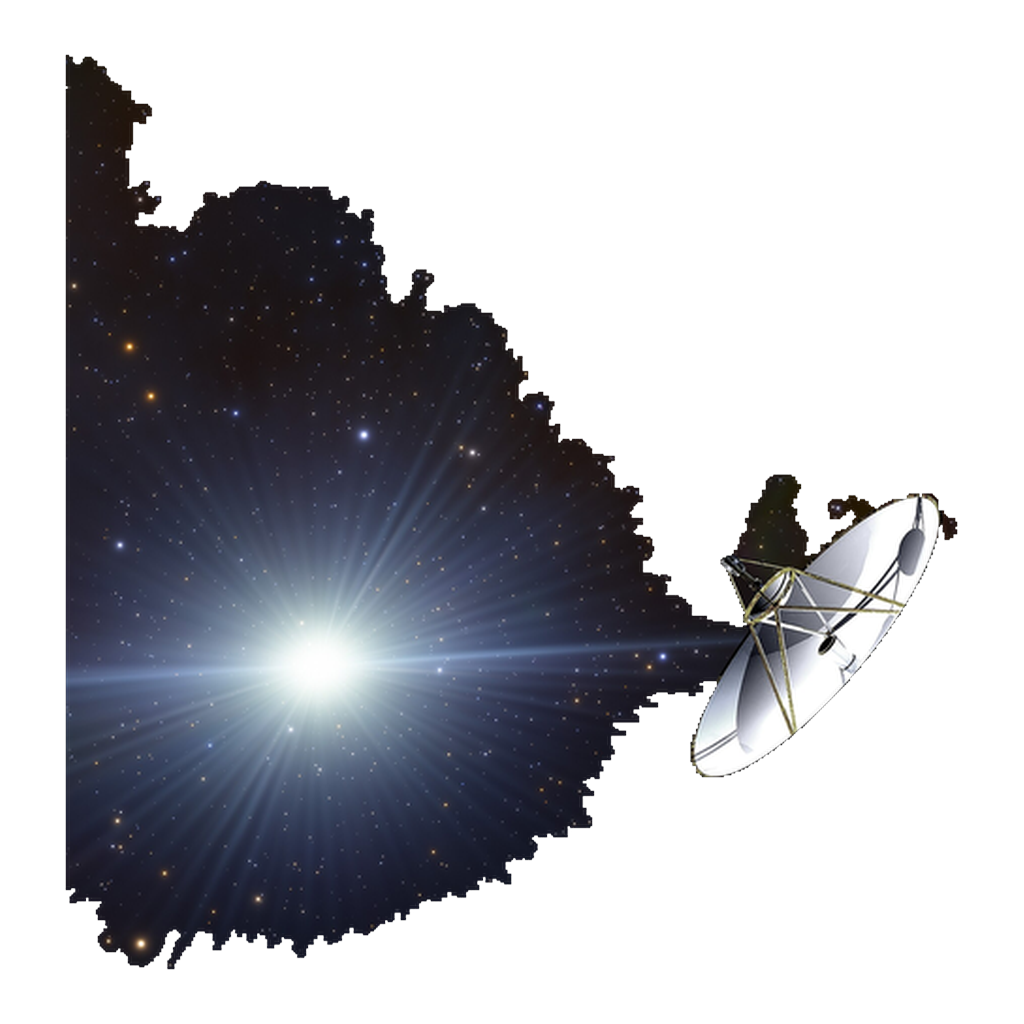
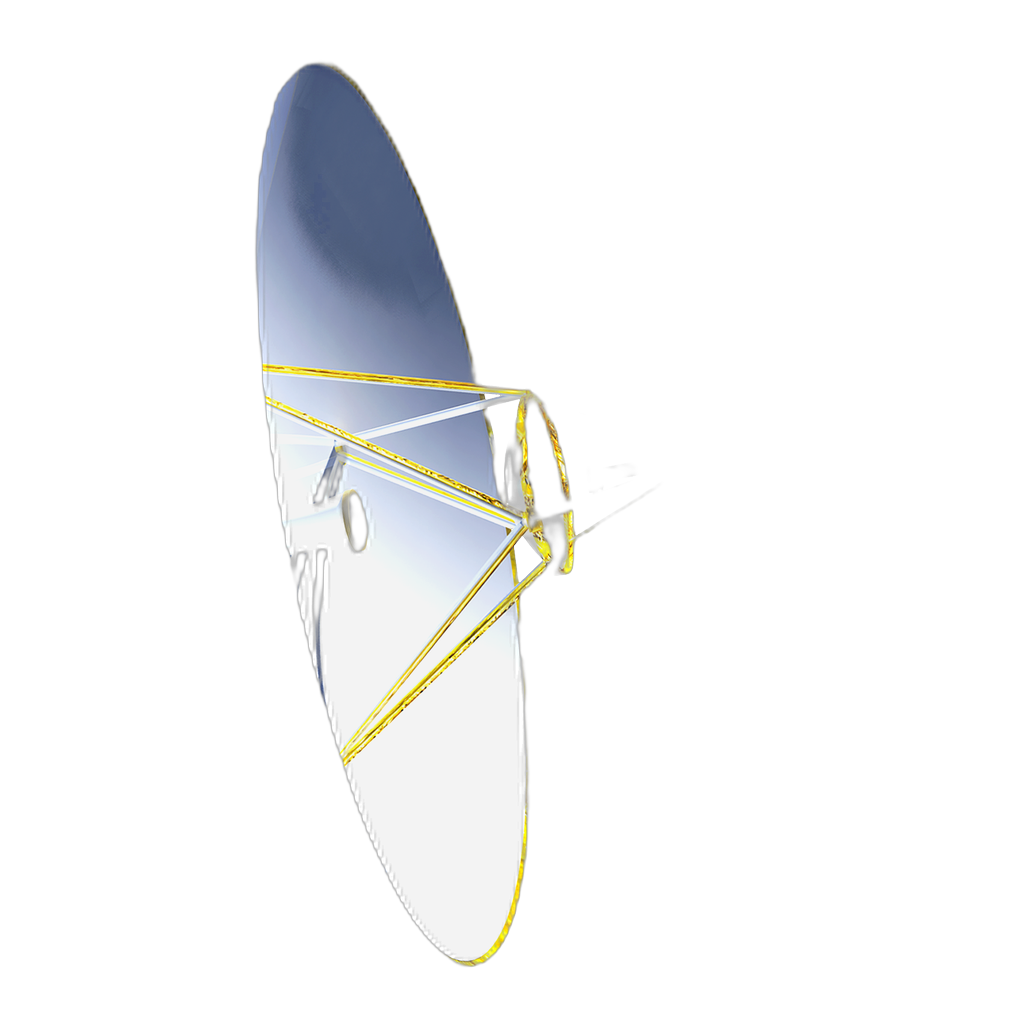
Replace scenic Hope, Psyche, Galileo, and New Horizons art with probe-only images.
Those four still showed a museum, an asteroid, Jupiter, or a starfield. Models cut cleanly; Hope has no clean photo so it uses the drawn probe.

diff --git a/src/BodyArt.test.tsx b/src/BodyArt.test.tsx
@@ -153,7 +153,7 @@ describe("cartoon body art", () => {
   it("has photos for every spacecraft in the catalog", () => {
     expect(SPACECRAFT_ART_IDS.length).toBeGreaterThan(20);
     for (const id of SPACECRAFT_ART_IDS) {
-      if (id === "solar-orbiter") {
+      if (id === "solar-orbiter" || id === "hope") {
         expect(BODY_ART[id]).toBeUndefined();
         continue;
       }
@@ -180,6 +180,16 @@ describe("cartoon body art", () => {
     );
     expect(container.querySelector("image")).toBeNull();
     expect(container.querySelector('[data-testid="art-solar-orbiter"]')).not.toBeNull();
+  });
+
+  it("draws Hope as a probe, not a museum hall photo", () => {
+    const { container } = render(
+      <svg>
+        <BodyArt id="hope" radius={16} color="#f0c070" type="spacecraft" />
+      </svg>,
+    );
+    expect(container.querySelector("image")).toBeNull();
+    expect(container.querySelector('[data-testid="art-hope"]')).not.toBeNull();
   });
 
   it("draws spacecraft from photos, not planet stickers or cartoon probes", () => {

diff --git a/src/bodyArtAssets.ts b/src/bodyArtAssets.ts
@@ -81,7 +81,7 @@ export const BODY_ART: Record<string, string> = {
   "wild-2": body("wild-2"),
   "shoemaker-levy-9": body("shoemaker-levy-9"),
   ...Object.fromEntries(
-    SPACECRAFT_CATALOG.filter((craft) => craft.id !== "solar-orbiter").map((craft) => [
+    SPACECRAFT_CATALOG.filter((craft) => craft.id !== "solar-orbiter" && craft.id !== "hope").map((craft) => [
       craft.id,
       body(craft.id),
     ]),

diff --git a/scripts/process-spacecraft-png.py b/scripts/process-spacecraft-png.py
@@ -16,6 +16,9 @@ DARK_LUMA = 22
 SCENE_RATIO = 0.28
 MIN_OPAQUE = 8_000
 
+FORCE_REMBG: set[str] = set()
+PRE_CROP: dict[str, tuple[float, float, float, float]] = {}
+
 _session = None
 
 
@@ -75,6 +78,42 @@ def corners_look_white(im: Image.Image) -> bool:
     height, width = arr.shape[:2]
     samples = [arr[2, 2], arr[2, width - 3], arr[height - 3, 2], arr[height - 3, width - 3]]
     return all(int(p[0]) > 230 and int(p[1]) > 230 and int(p[2]) > 230 for p in samples)
+
+
+def knockout_edge_blue(im: Image.Image) -> Image.Image:
+    arr = np.array(im.convert("RGBA"))
+    height, width = arr.shape[:2]
+    seen = np.zeros((height, width), dtype=np.uint8)
+    queue: deque[tuple[int, int]] = deque()
+
+    def is_display(y: int, x: int) -> bool:
+        red, green, blue = (int(v) for v in arr[y, x][:3])
+        return blue > 90 and blue > red + 25 and blue > green + 10
+
+    def seed(y: int, x: int) -> None:
+        if is_display(y, x):
+            queue.append((y, x))
+
+    for x in range(width):
+        seed(0, x)
+        seed(height - 1, x)
+    for y in range(height):
+        seed(y, 0)
+        seed(y, width - 1)
+
+    while queue:
+        y, x = queue.popleft()
+        if seen[y, x]:
+            continue
+        if not is_display(y, x):
+            continue
+        seen[y, x] = 1
+        arr[y, x, 3] = 0
+        for dy, dx in ((0, 1), (0, -1), (1, 0), (-1, 0)):
+            ny, nx = y + dy, x + dx
+            if 0 <= ny < height and 0 <= nx < width and not seen[ny, nx]:
+                queue.append((ny, nx))
+    return Image.fromarray(arr)
 
 
 def knockout_dark_space(im: Image.Image, luma_max: int = DARK_LUMA) -> Image.Image:
@@ -217,7 +256,7 @@ def isolate_subject(im: Image.Image) -> Image.Image:
 
 def pick_cutout(im: Image.Image) -> Image.Image:
     if corners_look_white(im):
-        white = isolate_subject(knockout_near_white(im))
+        white = isolate_subject(knockout_edge_blue(knockout_near_white(im)))
         if opaque_count(white) >= MIN_OPAQUE:
             return white
     space = isolate_subject(knockout_dark_space(im))
@@ -235,8 +274,22 @@ def pick_cutout(im: Image.Image) -> Image.Image:
 
 
 def process_file(source: Path, dest: Path) -> None:
+    craft_id = dest.stem
     with Image.open(source) as image:
-        fit_in_square(pick_cutout(image)).save(dest)
+        frame = image.convert("RGBA")
+        box = PRE_CROP.get(craft_id)
+        if box:
+            width, height = frame.size
+            frame = frame.crop(
+                (
+                    int(width * box[0]),
+                    int(height * box[1]),
+                    int(width * box[2]),
+                    int(height * box[3]),
+                )
+            )
+        cut = isolate_subject(rembg_cutout(frame)) if craft_id in FORCE_REMBG else pick_cutout(frame)
+        fit_in_square(cut).save(dest)
 
 
 def main() -> int:

diff --git a/scripts/assert-spacecraft-cutouts.py b/scripts/assert-spacecraft-cutouts.py
@@ -10,8 +10,8 @@ from PIL import Image
 ROOT = Path(__file__).resolve().parents[1]
 BODIES = ROOT / "public" / "bodies"
 
-# Solar Orbiter uses cartoon art; its photo is a sun, not a cut-out probe.
-SKIP = {"solar-orbiter"}
+# These use cartoon art; their photos are a sun or a museum hall.
+SKIP = {"solar-orbiter", "hope"}
 
 
 def main() -> int:

diff --git a/public/bodies/ATTRIBUTION.md b/public/bodies/ATTRIBUTION.md
@@ -93,16 +93,16 @@ Cartoon asteroid sprite: `asteroid-rock.png` from [OpenClipart #323535](https://
 | Juno | NASA PIA16869 |
 | JUICE | Juice launch kit cover close-up.png |
 | Europa Clipper | Europa Clipper spacecraft model.png |
-| Galileo | NASA PIA18176 |
+| Galileo | Galileo spacecraft model.png |
 | Cassini | NASA PIA04233 |
-| New Horizons | NASA’s New Horizons spacecraft (NH final).jpg |
+| New Horizons | New Horizons spacecraft model 2.png |
 | Voyager 1 | Voyager spacecraft.jpg |
 | Voyager 2 | Voyager spacecraft.jpg |
 | Pioneer 10 | Pioneer 10-11 spacecraft.jpg |
 | Pioneer 11 | Pioneer 10 or 11 in outer solar system.jpg |
 | Ulysses | Ulysses spacecraft model.png |
 | Lucy | Lucy spacecraft model.png |
-| Psyche | NASA PIA21499 |
+| Psyche | Psyche spacecraft model.png |
 
 Regenerate PNGs with:
 

diff --git a/CHANGELOG.md b/CHANGELOG.md
@@ -7,6 +7,12 @@ and this project adheres to [Semantic Versioning](https://semver.org/spec/v2.0.0
 
 ## [Unreleased]
 
+## [0.29.1] - 2026-09-06
+
+### Fixed
+
+- Galileo, New Horizons, and Psyche use clean spacecraft models instead of planet or starfield photos. Hope uses a drawn probe because the only public photo is a museum hall.
+
 ## [0.29.0] - 2026-09-06
 
 ### Changed
